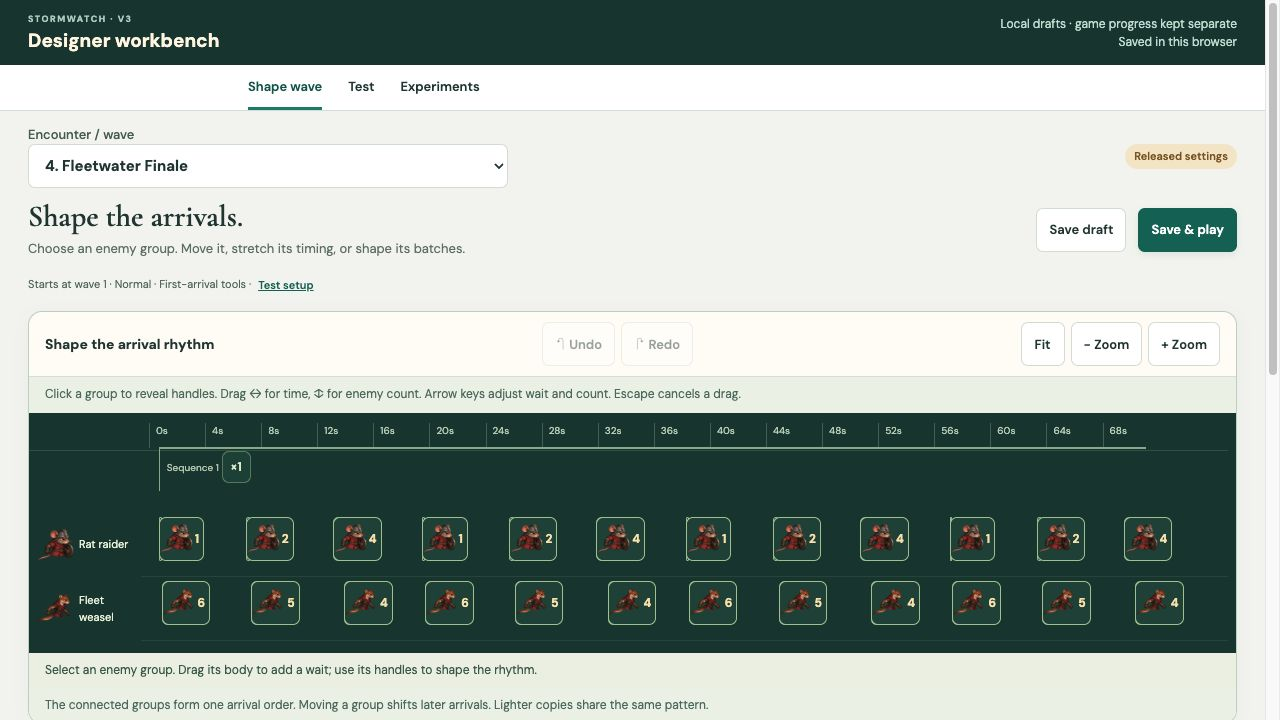
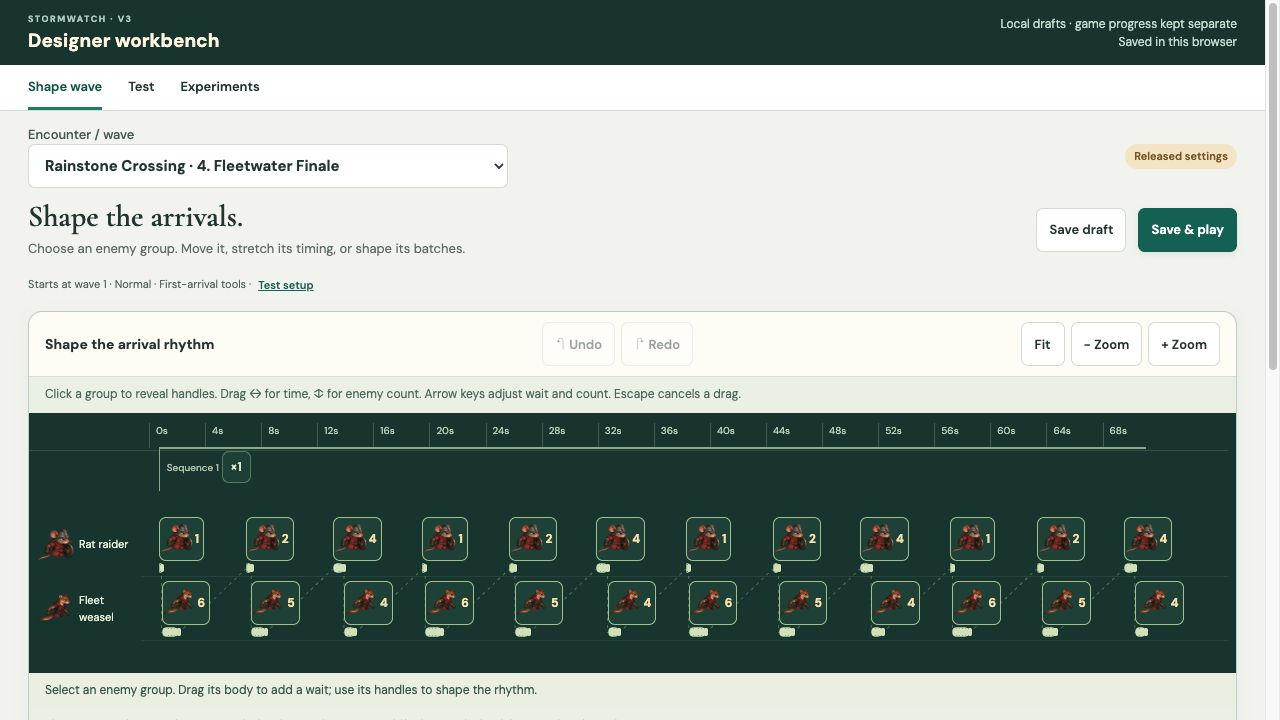
Polish visual wave gestures and verify workbench recovery

diff --git a/src/workbench/wave-canvas.ts b/src/workbench/wave-canvas.ts
@@ -24,6 +24,10 @@ interface CanvasState {
   openSections?: string[];
 }
 const states = new Map<string, CanvasState>();
+/** Explicit discard or loading another experiment starts a new editing history. */
+export function clearWaveCanvasHistory(): void {
+  states.clear();
+}
 const kinds: EnemyKind[] = ["raider", "runner", "armored", "boss"];
 const names: Record<EnemyKind, string> = {
   raider: "Rat raider",
@@ -50,6 +54,21 @@ const escape = (s: string) =>
         c
       ]!,
   );
+
+function editError(error: unknown, change: WaveEdit): string {
+  const detail =
+    error instanceof Error ? error.message : "This edit is not valid.";
+  if (detail.includes("nondecreasing"))
+    return "These enemies would arrive out of order. Shorten their stagger or add more spacing.";
+  if (detail === "Invalid wave group") {
+    if (change.type === "stagger")
+      return "Those arrivals exceed the batch spacing. Pull the last enemy back toward its batch.";
+    if (change.type === "duration")
+      return "That spacing is too short for the batch. Stretch its timing or shorten its stagger.";
+    return "This change conflicts with the group's timing. Adjust spacing or staggering first.";
+  }
+  return detail;
+}
 
 export function mountWaveCanvas(
   host: HTMLElement,
@@ -159,8 +178,7 @@ export function mountWaveCanvas(
       }
       commit(next, label, before);
     } catch (error) {
-      message =
-        error instanceof Error ? error.message : "This edit is not valid.";
+      message = `Cannot change: ${editError(error, change)}`;
       render();
     }
   }
@@ -248,6 +266,23 @@ export function mountWaveCanvas(
           `<div class="wg-sequence" style="left:${120 + s.start * scale}px;width:${Math.max(44, (s.handoff - s.start) * scale)}px"><span>Sequence ${s.packetIndex + 1}</span> ${button(`select-sequence:${s.packetIndex}`, `×${s.repeat}`)}${selected?.packetIndex === s.packetIndex ? `<button class="wg-handle wg-repeat" data-wg-drag="repeat" data-wg-node="${layout.nodes.findIndex((n) => n.packetIndex === s.packetIndex)}" aria-label="Drag to change repeat count">↔ repeats</button>` : ""}</div>`,
       )
       .join("");
+    const repeatRestHandles = selected
+      ? layout.nodes
+          .filter(
+            (n) =>
+              n.packetIndex === selected.packetIndex &&
+              n.groupIndex === 0 &&
+              n.repeatIndex === 1,
+          )
+          .map((n) => {
+            const source = model.wave.packets[n.packetIndex];
+            const rest = source.repeatDelayBefore ?? 0;
+            const midpoint =
+              n.start - (source.groups[0].delayBefore ?? 0) - rest / 2;
+            return `<button class="wg-handle wg-repeat-rest" style="left:${120 + midpoint * scale - 22}px;top:70px" data-wg-node="${layout.nodes.indexOf(n)}" data-wg-drag="rest" aria-label="Drag extra wait between repeats">↔ rest ${seconds(rest)}</button>`;
+          })
+          .join("")
+      : "";
     const nodes = layout.nodes
       .map((n, index) => {
         const chosen =
@@ -260,7 +295,7 @@ export function mountWaveCanvas(
               `<i class="wg-arrival" style="left:${(spawn.at - n.start) * scale}px" title="Arrival ${seconds(spawn.at)}"></i>`,
           )
           .join("");
-        return `<div class="wg-node ${n.repeatIndex > 0 ? "wg-echo" : ""} ${chosen ? "wg-selected" : ""}" style="left:${120 + n.start * scale}px;top:${top}px;width:${Math.max(1, (n.handoff - n.start) * scale)}px"><div class="wg-band">${arrivals}<span class="wg-tail" style="left:${(n.lastSpawn - n.start) * scale}px;width:${Math.max(0, (n.handoff - n.lastSpawn) * scale)}px"></span></div><button class="wg-node-head" data-wg-node="${index}" data-wg-drag="move" aria-label="${names[n.kind]}, ${n.count} enemies, starts ${seconds(n.start)}, ${n.repeatIndex ? `linked repeat ${n.repeatIndex + 1}` : "drag to change wait"}"><img src="${images[n.kind]}" alt=""/><strong>${n.count}</strong></button>${chosen ? `<button class="wg-handle wg-duration" style="left:${(n.handoff - n.start) * scale}px" data-wg-node="${index}" data-wg-drag="duration" aria-label="Drag group end to change spacing">↔ time</button><button class="wg-handle wg-count" data-wg-node="${index}" data-wg-drag="count" aria-label="Drag up to add enemies">↕ count</button>` : ""}</div>`;
+        return `<div class="wg-node ${n.repeatIndex > 0 ? "wg-echo" : ""} ${chosen ? "wg-selected" : ""}" style="left:${120 + n.start * scale}px;top:${top}px;width:${Math.max(1, (Math.max(n.handoff, n.lastSpawn) - n.start) * scale)}px"><div class="wg-band">${arrivals}<span class="wg-tail" style="left:${(n.lastSpawn - n.start) * scale}px;width:${Math.max(0, (n.handoff - n.lastSpawn) * scale)}px"></span></div><button class="wg-node-head" data-wg-node="${index}" data-wg-drag="move" aria-label="${names[n.kind]}, ${n.count} enemies, starts ${seconds(n.start)}, ${n.repeatIndex ? `linked repeat ${n.repeatIndex + 1}` : "drag to change wait"}"><img src="${images[n.kind]}" alt=""/><strong>${n.count}</strong></button>${chosen ? `<button class="wg-handle wg-duration" style="left:${(n.handoff - n.start) * scale}px" data-wg-node="${index}" data-wg-drag="duration" aria-label="Drag timing cursor to change batch spacing">↔ time</button><button class="wg-handle wg-count" data-wg-node="${index}" data-wg-drag="count" aria-label="Drag up to add enemies">↕ count</button>` : ""}</div>`;
       })
       .join("");
     const flow = layout.nodes
@@ -284,11 +319,11 @@ export function mountWaveCanvas(
       const local = Array.from(
         { length: firstSize },
         (_, i) =>
-          `<button class="wg-detail-enemy" style="left:${32 + i * node.stagger * detailScale}px;top:${34 + i * 12}px" ${i === firstSize - 1 && firstSize > 1 ? `data-wg-node="${layout.nodes.indexOf(node)}" data-wg-drag="stagger"` : ""} aria-label="${i === firstSize - 1 ? "Drag last enemy to spread arrivals within every batch" : names[node.kind]}"><img src="${images[node.kind]}" alt=""/></button>`,
+          `<button class="wg-detail-enemy" style="left:${32 + i * node.stagger * detailScale}px;top:${34 + i * 12}px" ${i === firstSize - 1 && firstSize > 1 ? `data-wg-node="${layout.nodes.indexOf(node)}" data-wg-drag="stagger"` : ""} aria-label="${i === firstSize - 1 && firstSize > 1 ? "Drag last enemy to spread arrivals within every batch" : names[node.kind]}"><img src="${images[node.kind]}" alt=""/></button>`,
       ).join("");
-      inspector = `<section class="wg-inspector"><div class="wg-inspector-heading"><img src="${images[node.kind]}" alt=""/><div><h3>${names[node.kind]} · ${node.count} enemies</h3><p>Sequence ${node.packetIndex + 1}${node.repeatIndex ? ` · linked copy ${node.repeatIndex + 1}` : ""}${(packet.repeat ?? 1) > 1 ? ` · edits apply to all ${packet.repeat} repeats` : " · one pattern"}</p></div></div><div class="wg-detail" style="position:relative;min-height:130px"><span>Shape one batch · drag its last enemy to spread arrivals</span>${local}<button class="wg-handle wg-batch" style="position:absolute;left:0;top:76px" data-wg-node="${layout.nodes.indexOf(node)}" data-wg-drag="batch" aria-label="Drag up to increase enemies per batch">↕ per batch</button><button class="wg-handle" style="position:absolute;left:${32 + node.gap * detailScale}px;top:46px" data-wg-node="${layout.nodes.indexOf(node)}" data-wg-drag="gap" aria-label="Drag next batch to change spacing">↔ next batch</button></div><details class="wg-precise"><summary>Precise timing &amp; counts</summary><div class="wg-controls">${pair("Enemies", String(node.count), "count")}${pair("Per batch", String(node.batchSize), "batch")}${pair("Batch spacing", seconds(node.gap), "gap")}${pair("Within batch", seconds(node.stagger), "stagger")}${pair("Wait before", seconds(group.delayBefore ?? 0), "wait")}${pair("Pattern repeats", String(packet.repeat ?? 1), "repeat")}${pair("Extra repeat rest", seconds(packet.repeatDelayBefore ?? 0), "rest")}<button class="wg-handle wg-rest" data-wg-node="${layout.nodes.indexOf(node)}" data-wg-drag="rest" aria-label="Drag extra repeat rest">↔ extra rest</button></div></details><p>Shaded tails include the final batch spacing. Width means elapsed time; the number means enemies.</p><details><summary>Arrange or remove groups</summary><div class="wg-controls">${button("earlier", "Move before", selected!.groupIndex === 0)}${button("later", "Move after", selected!.groupIndex === packet.groups.length - 1)}${button("remove", "Remove group")}${button("sequence-earlier", "Sequence before", selected!.packetIndex === 0)}${button("sequence-later", "Sequence after", selected!.packetIndex === model.wave.packets.length - 1)}</div></details><div class="wg-palette"><span>Add after this group</span>${kinds.map((kind) => `<button data-wg-action="add:${kind}"><img src="${images[kind]}" alt=""/>${names[kind]}</button>`).join("")}</div><details><summary>Start a new sequence after this one</summary><div class="wg-palette">${kinds.map((kind) => `<button data-wg-action="new:${kind}"><img src="${images[kind]}" alt=""/>${names[kind]}</button>`).join("")}</div></details></section>`;
+      inspector = `<section class="wg-inspector"><div class="wg-inspector-heading"><img src="${images[node.kind]}" alt=""/><div><h3>${names[node.kind]} · ${node.count} enemies</h3><p>Sequence ${node.packetIndex + 1}${node.repeatIndex ? ` · linked copy ${node.repeatIndex + 1}` : ""}${(packet.repeat ?? 1) > 1 ? ` · edits apply to all ${packet.repeat} repeats` : " · one pattern"}</p></div></div><div class="wg-detail" style="position:relative;min-height:130px"><span>${firstSize > 1 ? "Shape one batch · drag its last enemy to spread arrivals" : "Drag ↕ per batch up to form pairs, then spread their arrivals"}</span>${local}<button class="wg-handle wg-batch" style="position:absolute;left:0;top:76px" data-wg-node="${layout.nodes.indexOf(node)}" data-wg-drag="batch" aria-label="Drag up to increase enemies per batch">↕ per batch</button><button class="wg-handle" style="position:absolute;left:${32 + node.gap * detailScale}px;top:46px" data-wg-node="${layout.nodes.indexOf(node)}" data-wg-drag="gap" aria-label="Drag next batch to change spacing">↔ next batch</button></div><details class="wg-precise"><summary>Precise timing &amp; counts</summary><div class="wg-controls">${pair("Enemies", String(node.count), "count")}${pair("Per batch", String(node.batchSize), "batch")}${pair("Batch spacing", seconds(node.gap), "gap")}${pair("Within batch", seconds(node.stagger), "stagger")}${pair("Wait before", seconds(group.delayBefore ?? 0), "wait")}${pair("Pattern repeats", String(packet.repeat ?? 1), "repeat")}${pair("Extra repeat rest", seconds(packet.repeatDelayBefore ?? 0), "rest")}<button class="wg-handle wg-rest" data-wg-node="${layout.nodes.indexOf(node)}" data-wg-drag="rest" aria-label="Drag extra repeat rest">↔ extra rest</button></div></details><p>Timing strips show elapsed time; shaded tails include final batch spacing. The number means enemies.${node.lastSpawn > node.handoff ? " This batch finishes after its spacing cursor; the following wait preserves arrival order." : ""}</p><details><summary>Arrange or remove groups</summary><div class="wg-controls">${button("earlier", "Move before", selected!.groupIndex === 0)}${button("later", "Move after", selected!.groupIndex === packet.groups.length - 1)}${button("remove", "Remove group")}${button("sequence-earlier", "Sequence before", selected!.packetIndex === 0)}${button("sequence-later", "Sequence after", selected!.packetIndex === model.wave.packets.length - 1)}</div></details><div class="wg-palette"><span>Add after this group</span>${kinds.map((kind) => `<button data-wg-action="add:${kind}"><img src="${images[kind]}" alt=""/>${names[kind]}</button>`).join("")}</div><details><summary>Start a new sequence after this one</summary><div class="wg-palette">${kinds.map((kind) => `<button data-wg-action="new:${kind}"><img src="${images[kind]}" alt=""/>${names[kind]}</button>`).join("")}</div></details></section>`;
     }
-    host.innerHTML = `<div class="wg-toolbar"><strong>Shape the arrival rhythm</strong><div class="wg-history">${button("undo", "↶ Undo", !model.past.length)}${button("redo", "↷ Redo", !model.future.length)}</div><div class="wg-zoom">${button("fit", "Fit")}${button("zoom-out", "− Zoom")}${button("zoom-in", "+ Zoom")}</div></div><p class="wg-guide">Click a group to reveal handles. Drag ↔ for time, ↕ for enemy count. Arrow keys adjust wait and count. Escape cancels a drag.</p><div class="wg-scroll"><div class="wg-stage" style="position:relative;width:${width}px;min-height:${112 + visibleKinds.length * 64}px"><div class="wg-ruler">${ticks}</div>${sequences}${lanes}<svg class="wg-flow" width="${width}" height="${100 + visibleKinds.length * 64 + 12}" aria-hidden="true">${flow}</svg>${nodes}</div></div><p class="wg-message" role="status" aria-live="polite">${escape(message)}</p>${inspector}`;
+    host.innerHTML = `<div class="wg-toolbar"><strong>Shape the arrival rhythm</strong><div class="wg-history">${button("undo", "↶ Undo", !model.past.length)}${button("redo", "↷ Redo", !model.future.length)}</div><div class="wg-zoom">${button("fit", "Fit")}${button("zoom-out", "− Zoom")}${button("zoom-in", "+ Zoom")}</div></div><p class="wg-guide">Click a group to reveal handles. Drag ↔ for time, ↕ for enemy count. Arrow keys adjust wait and count. Escape cancels a drag.</p><div class="wg-scroll"><div class="wg-stage" style="position:relative;width:${width}px;min-height:${132 + visibleKinds.length * 64}px"><div class="wg-ruler">${ticks}</div>${sequences}${lanes}<svg class="wg-flow" width="${width}" height="${100 + visibleKinds.length * 64 + 12}" aria-hidden="true">${flow}</svg>${nodes}${repeatRestHandles}</div></div><p class="wg-message ${message.startsWith("Limit:") || message.startsWith("Cannot change:") ? "wg-error" : ""}" role="status" aria-live="polite">${escape(message)}</p>${inspector}`;
     for (const detail of host.querySelectorAll<HTMLDetailsElement>("details"))
       detail.open =
         model.openSections?.includes(
@@ -438,7 +473,7 @@ export function mountWaveCanvas(
       location()?.packetIndex === node.packetIndex &&
       location()?.groupIndex === node.groupIndex;
     if (
-      target.dataset.wgDrag !== "repeat" ||
+      !["repeat", "rest"].includes(target.dataset.wgDrag!) ||
       location()?.packetIndex !== node.packetIndex
     )
       select(node);
@@ -566,7 +601,7 @@ export function mountWaveCanvas(
     } catch (error) {
       gesture.candidate = clone(gesture.original);
       model.wave = clone(gesture.original);
-      message = `Limit: ${error instanceof Error ? error.message : "This timing is invalid."}`;
+      message = `Limit: ${editError(error, change)}`;
     }
     render();
   }
@@ -598,6 +633,7 @@ export function mountWaveCanvas(
       return;
     }
     if ((event.ctrlKey || event.metaKey) && event.key.toLowerCase() === "z") {
+      if (gesture) finish(undefined, true);
       history(event.shiftKey);
       event.preventDefault();
       return;

diff --git a/src/workbench/main.ts b/src/workbench/main.ts
@@ -20,7 +20,7 @@ import {
   type DraftRevision,
 } from "./drafts";
 import { mountAttempt } from "./attempt-view";
-import { mountWaveCanvas } from "./wave-canvas";
+import { clearWaveCanvasHistory, mountWaveCanvas } from "./wave-canvas";
 import { resolveScenario as inspectScenario } from "./scenarios";
 // The browser and headless runner share this session; it owns commands and evidence.
 import {
@@ -152,7 +152,7 @@ let scenario: Scenario = {
   seed: 42,
 };
 const numberInput = (key: string, label: string, value: number, step = "1") =>
-  `<label>${esc(label)}<input data-field="${key}" type="number" value="${value}" step="${step}" min="0" ></label>`;
+  `<label>${esc(label)}<input data-field="${key}" data-original="${value}" type="number" value="${value}" step="${step}" min="0" ></label>`;
 function currentLevel() {
   return content.levels.find((level) => level.id === levelId)!;
 }
@@ -454,6 +454,7 @@ function render() {
     if (saved) {
       (event.target as HTMLSelectElement).value = revision?.id ?? "";
       navigate(() => {
+        clearWaveCanvasHistory();
         revision = saved;
         content = clone(saved.content);
         ensureSelection();
@@ -501,6 +502,7 @@ function render() {
         const savedRevision = store.bundle.revisions.find(
           (entry) => entry.id === saved.revisionId,
         )!;
+        clearWaveCanvasHistory();
         revision = savedRevision;
         content = clone(savedRevision.content);
         scenario = clone(saved.scenario as Scenario);
@@ -524,6 +526,7 @@ function render() {
       (record.scenario as Scenario) ??
       (store.bundle.scenarios.find((entry) => entry.id === record.scenarioId)
         ?.scenario as Scenario);
+    clearWaveCanvasHistory();
     revision = savedRevision;
     content = clone(savedRevision.content);
     scenario = clone(setup);
@@ -671,6 +674,7 @@ function saveReport(
 }
 function launch(replay = false) {
   if (replay && lastAttemptContent && lastAttemptScenario) {
+    clearWaveCanvasHistory();
     content = clone(lastAttemptContent);
     scenario = clone(lastAttemptScenario);
     revision = lastAttemptRevision;
@@ -795,6 +799,7 @@ function collectEdits() {
   const level = next.levels.find((entry) => entry.id === levelId)!;
   const wave = level.waves.find((entry) => entry.id === waveId)!;
   for (const field of root.querySelectorAll<HTMLInputElement>("[data-field]")) {
+    if (Number(field.value) === Number(field.dataset.original)) continue;
     const key = field.dataset.field!;
     if (key === "reward") wave.reward = Number(field.value);
     else
@@ -811,7 +816,26 @@ function collectEdits() {
   next.towers = editorJson("tower-editor", "Global defender catalog");
   next.enemies = editorJson("enemy-editor", "Global enemy catalog");
   next.rules = editorJson("rule-editor", "Global gameplay rules");
-  validateContent(next);
+  try {
+    validateContent(next);
+  } catch (cause) {
+    const editors = [
+      ["packet-editor", currentWave().packets],
+      ["tower-editor", content.towers],
+      ["enemy-editor", content.enemies],
+      ["rule-editor", content.rules],
+    ] as const;
+    const changed = editors.find(
+      ([id, original]) =>
+        root.querySelector<HTMLTextAreaElement>(`#${id}`)!.value !==
+        json(original),
+    );
+    invalidEditor = root.querySelector<HTMLTextAreaElement>(
+      `#${changed?.[0] ?? "packet-editor"}`,
+    )!;
+    invalidEditor.setAttribute("aria-invalid", "true");
+    throw cause;
+  }
   return next;
 }
 function commitEdits() {
@@ -847,6 +871,20 @@ function updatePreview() {
     );
     root.querySelector<HTMLElement>("#wave-canvas")!.inert = false;
     scenario = readScenario();
+    dirty =
+      configurationIdentity(content) !== configurationIdentity(savedContent) ||
+      configurationIdentity({
+        ...scenario,
+        formation: scenario.formation ?? [],
+        overrides: scenario.overrides ?? {},
+      }) !==
+        configurationIdentity({
+          ...savedScenario,
+          formation: savedScenario.formation ?? [],
+          overrides: savedScenario.overrides ?? {},
+        }) ||
+      root.querySelector<HTMLInputElement>("#draft-name")!.value !==
+        (revision?.name ?? `${currentLevel().name} rhythm candidate`);
     root.querySelector("#attempt-timeline")!.innerHTML = timeline();
     root.querySelector("#attempt-map")!.innerHTML = mapPreview();
     root.querySelector("#attempt-effective")!.innerHTML = effectiveInspector();
@@ -862,7 +900,7 @@ function updatePreview() {
     error = "";
     message = dirty
       ? "Unsaved changes. Save & play will test these settings."
-      : message;
+      : "Ready to shape this wave. Your settings match the saved recipe.";
   } catch (cause) {
     root.querySelector<HTMLElement>("#wave-canvas")!.inert = true;
     error = `Preview paused: ${cause instanceof Error ? cause.message : String(cause)}. Your input is retained.`;
@@ -895,6 +933,10 @@ async function onClick(event: MouseEvent) {
   ) {
     try {
       if (target.dataset.action === "save-switch") commitEdits();
+      else {
+        clearWaveCanvasHistory();
+        message = "Changes discarded. Ready to shape this wave.";
+      }
       dirty = false;
       const next = pendingNavigation;
       pendingNavigation = undefined;
@@ -930,6 +972,7 @@ async function onClick(event: MouseEvent) {
       message = "Named draft saved. Released content is unchanged.";
     } else if (action === "baseline") {
       navigate(() => {
+        clearWaveCanvasHistory();
         content = clone(CANONICAL_CONTENT);
         revision = null;
         message = "Released baseline selected.";

diff --git a/src/workbench/style.css b/src/workbench/style.css
@@ -1255,3 +1255,22 @@
 .wg-inspector details[open] > summary {
   margin-bottom: 8px;
 }
+.wg-scroll {
+  overflow-y: hidden;
+}
+.wb-shell .wb-tabs {
+  padding-left: 28px;
+}
+@media (max-width: 650px) {
+  .wb-shell .wb-tabs {
+    padding-left: 16px;
+  }
+}
+.wg-message.wg-error {
+  background: #fae8d9;
+  color: #843f24;
+}
+.wb-shell .wg-repeat-rest {
+  font-size: 9px;
+  background: #c9d8bf;
+}

diff --git a/review/2026-09-27-workbench-v3/report.md b/review/2026-09-27-workbench-v3/report.md
@@ -21,13 +21,27 @@ Opus raised a possible zero-batch scheduling hang. Source verification showed th
 
 Browser interaction evidence includes body dragging (first-group wait 0 → 3.1s), timing-extent dragging (gap 3 → 2.8025s), count dragging (20 → 23), and three undos returning the exact original group with absent optional timing fields still absent. Selecting pairs and dragging the final enemy set uniform stagger to 0.6s. Save & play launched the draft, returning retained the exact recipe and enabled undo, and the report marked it as the current saved settings.
 
-Selecting the third Weasel copy in A Net in the Lanternlight highlighted all three source-linked groups and disclosed all three repeats. Dragging the repeat handle changed 3 → 4 and drew four copies. Further checks and final review findings are recorded below as verification completes.
+Selecting the third Weasel copy in A Net in the Lanternlight highlighted all three source-linked groups and disclosed all three repeats. Dragging the repeat handle changed 3 → 4 and drew four copies. Dragging extra repeat rest from 3 → 4s left the first copy unchanged and shifted later copies by 1s and 2s; Undo restored the source and Released settings status. Keyboard wait editing retained focus and updated all linked copies.
 
-The focused model suite covers shared spawn records, additive repeat rests and final spacing, immutable edits/rejections, partial batches, simultaneous versus invalid nonmonotonic transitions, stable insert/reorder identities and every canonical wave. At this stage all 235 tests in 41 files pass; type checking, formatting, production build and workbench build pass. Production isolation is verified across 220 files. The existing large-bundle advisory remains.
+Direct batch size, uniform stagger and next-batch spacing edits compiled immediately. An invalid stagger endpoint restored the source without adding history. Enemy palettes added a group and a separate sequence; Undo restored the original. Invalid expert batch size zero retained and focused the input, blocked Play and disabled the stale canvas. Corrected expert JSON refreshed the canvas and could be undone. Save & play also worked at 844×390; the page had no horizontal overflow and handles measured 44 pixels. This is viewport verification, not physical touch-device testing.
+
+Final specification and standards reviews found two integration issues: history during an active drag could desynchronize the recipe, and equivalent optional defaults could falsely mark an exact Undo as unsaved. Both were corrected and source-reviewed. Active-drag keyboard cancellation is verified by source tracing, not a held-pointer browser test. The final browser check confirmed edit → Undo restores Released settings without adding optional numeric defaults.
+
+The focused model suite covers shared spawn records, additive repeat rests and final spacing, immutable edits/rejections, partial batches, simultaneous versus invalid nonmonotonic transitions, stable insert/reorder identities and every canonical wave. Final checks pass: all 235 tests in 41 files, type checking, formatting, production build and workbench build. Production isolation is verified across 220 files. The existing large-bundle advisory remains.
+
+| Criterion | Evidence and remaining uncertainty |
+| --- | --- |
+| Visual primary | Matched captures show editable enemy-image timeline before disclosed forms. Owner first-use response pending. |
+| Direct manipulation | Browser drag workflows change wait, count, spacing, batches, stagger, repeats and rest. |
+| Hierarchy and scope | Selected shared copies highlight; contextual batch view and all-repeat scope appear. |
+| Semantic truth | Canonical schedule equivalence tests, partial batches, trailing gaps and invalid transition rejection pass. |
+| Recoverability | Browser Undo, expert recovery and save/play return pass; active cancellation/history source-reviewed. |
+| Accessibility | Keyboard edits, scoped step alternatives, focus recovery, 44px handles and landscape layout checked. Physical touch and assistive-technology acceptance pending. |
+| Prior criteria | Primary action, visible test setup, hidden default JSON, feedback and production isolation retained. |
 
 ## Captures and provenance
 
-All PNGs in this directory are browser captures of the local workbench, generated during this iteration. They are review evidence, not runtime artwork. `before-desktop.png` and `after-desktop.png` show the released first-wave view at 1280×720. `before-complex.png` and `after-complex.png` show Fleetwater Finale at the same viewport and scroll position. Existing enemy body assets retain their original provenance; none were generated or altered for this UI.
+All PNGs in this directory are browser captures of the local workbench, generated during this iteration. They are review evidence, not runtime artwork. `before-desktop.png` and `after-desktop.png` show the released first-wave view at 1280×720. `before-complex.png` and `after-complex.png` show Fleetwater Finale at the same viewport and scroll position. `after-selected.png` shows linked Weasel groups and rest handles; `after-landscape.png` shows the 844×390 layout; `after-error.png` shows retained invalid expert input. Existing enemy body assets retain their original provenance; none were generated or altered for this UI.
 
 ## Limits and acceptance
 

diff --git a/review/2026-09-27-workbench-v3/spec-review.md b/review/2026-09-27-workbench-v3/spec-review.md
@@ -1,0 +1,21 @@
+# Specification review
+
+Reviewed `ed7f1fc...50d9856` against `.scratch/designer-workbench/v3-spec.md`, the V3 rubric, the V2 report and both V3 critiques. Source inspection; I did not rerun browser workflows or repository checks.
+
+## Finding
+
+**[P1, fixed in follow-up] Undo during a drag could make the displayed recipe differ from Save & play.** The rubric requires “cancellation leaves recipe intact; visual and expert edits cannot silently overwrite each other; Save & play uses current recipe.” `src/workbench/wave-canvas.ts:600–603` calls `history()` even when a gesture is active. Initial reproduction: committed count A→B; begin preview from B; Cmd/Ctrl+Z then Escape. Undo wrote A to JSON, while cancellation restored B only to the canvas. Save & play collected A.
+
+**[P2, fixed in final delta] Empty default formation created false unsaved setup.** The final delta derives dirty state by serialized setup comparison, but initial `scenario` omits `formation` while `readScenario()` always adds `formation: []`. Exact undo therefore remained falsely unsaved. This conflicted with the retained honest save-state/recoverability criterion. Final source verification confirms normalized empty formation/overrides and canonical identity comparison remove the false difference. Unchanged numeric controls now retain omitted optional defaults through `data-original`.
+
+## Coverage
+
+Canvas, enemy imagery, compact picker, contextual controls, linked repeats, ordered schedule, trailing-spacing geometry and keyboard/step alternatives are present. Pure edits preserve authored identity and validate through the existing compiler/scheduler; add/reorder/delete remain bounded authoring operations rather than new scheduling semantics. Valid expert edits enter visual history; invalid expert input pauses the canvas. Normal save/play remounts preserve history and selection when the recipe matches. Independent critiques and matched desktop captures are recorded.
+
+No canonical balance change, new scheduling rule, asset spending or external publication was found. Owner first-use acceptance remains expressly unverified. Browser verification must establish narrow/touch, keyboard, cancellation and recovery behavior; model tests cannot establish gesture integrity.
+
+## Follow-up verification
+
+The working-tree fix cancels the active candidate before `history(event.shiftKey)`. Source tracing confirms both undo and redo now snapshot the accepted original, not the preview; `onChange` synchronizes the resulting history entry to JSON. Later Escape only clears selection, and pointer release cannot recommit the discarded candidate because `gesture` is null. Empty history also leaves the restored original intact. No extra source change was necessary. This is source verification, not browser proof.
+
+Final delta audit also confirms explicit discard/revision loads clear cached histories, expert edits remain undoable, repeat rest targets its actual interval, and strips extend through the last arrival while preserving the timing cursor. No other confirmed issue was found.

diff --git a/review/2026-09-27-workbench-v3/standards-review.md b/review/2026-09-27-workbench-v3/standards-review.md
@@ -1,0 +1,19 @@
+# Standards review
+
+Reviewed `ed7f1fc...50d9856` against `AGENTS.md`, `docs/SCOPE.md` and `docs/ARCHITECTURE.md`.
+
+## Hard standard breaches
+
+No actionable breaches found. The change stays within the workbench adapter boundary; it does not change simulation rules, canonical recipes, campaign persistence or production entry points. Proposed visual edits clone the authored wave and validate it through the existing compiler, level validator and scheduler before accepting it. Pointer cancellation restores the original wave, and committed history snapshots preserve recipe identities and optional fields. Invalid external editor input is retained while the canvas is disabled. Focused model tests, visual captures, an ADR and verification evidence accompany the change. No private machine paths or access details were found in the added public documentation.
+
+## Heuristic findings
+
+No actionable findings. The gesture-specific mappings repeat some numeric conversions, but the shared `WaveEdit` operation and validation boundary already centralize the consequential semantics; this alone does not justify a refactor finding.
+
+This assessment is a source/documentation review. Recorded check and browser results were inspected, not independently rerun for this axis.
+
+## Final delta audit
+
+Reviewed the working-tree delta after `50d9856`, including current integration code. Drag cancellation before history actions, explicit experiment/discard history boundaries, arrival extents and contextual guidance preserve the workbench/simulation boundary. No additional hard standards breach found.
+
+One actionable integration issue was found and resolved: raw scenario JSON comparisons treated omitted formation and `formation: []` as different, leaving exact Undo falsely unsaved. The final fix normalizes optional empty formation/overrides, compares canonical identities and preserves omitted numeric defaults when their controls are unchanged. The specification reviewer verified the fix by source inspection; the integrating agent verified edit → Undo returns Released settings in the browser.
